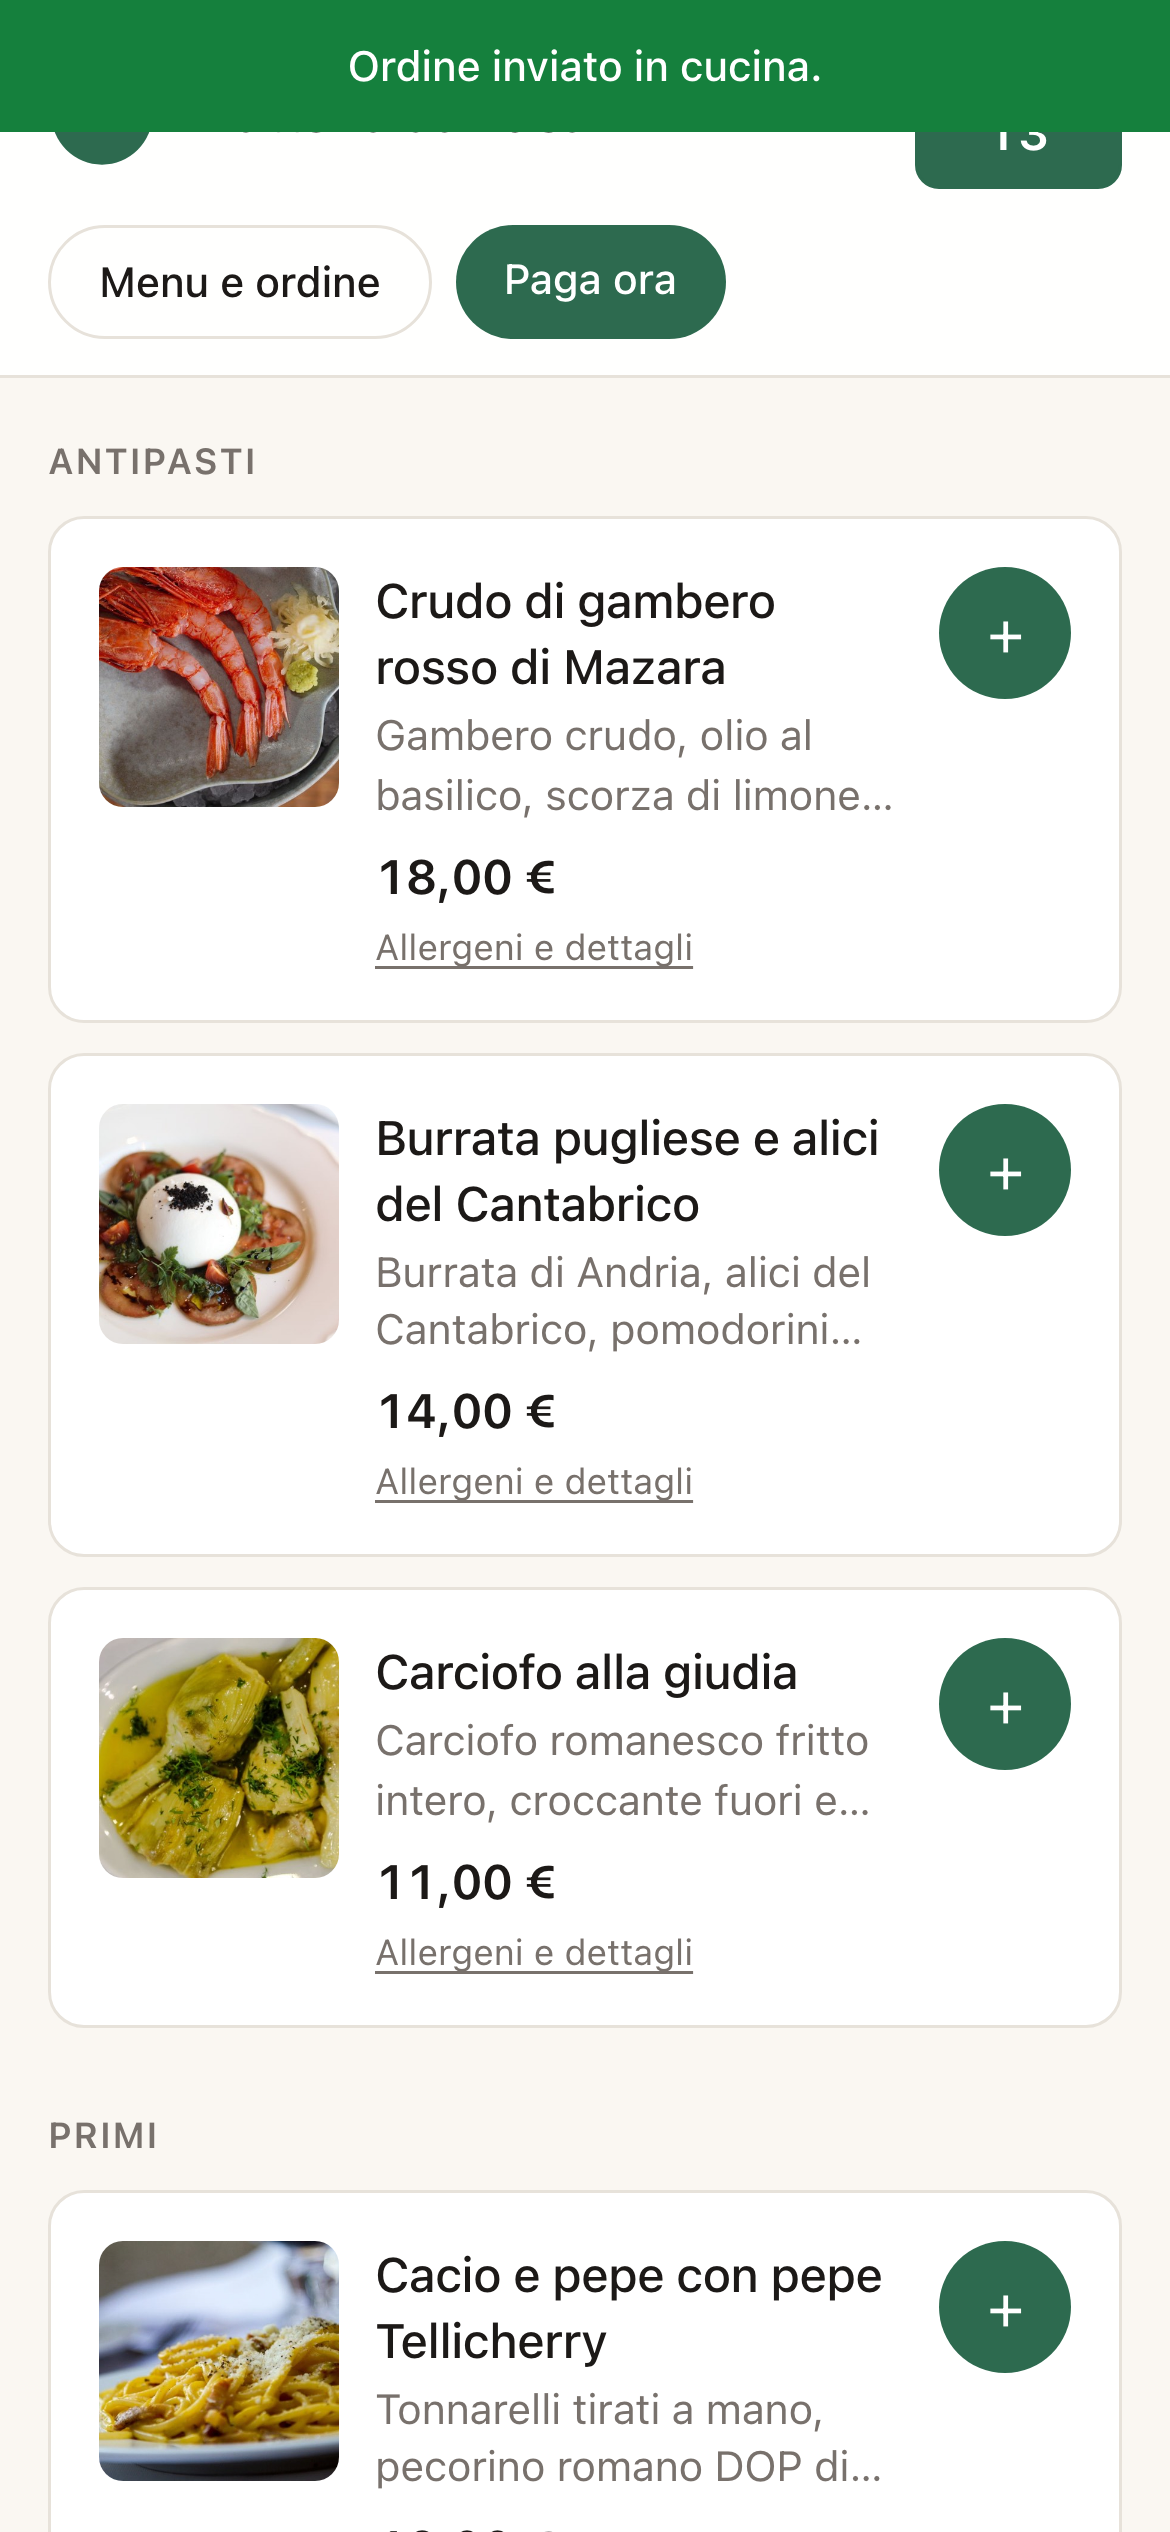
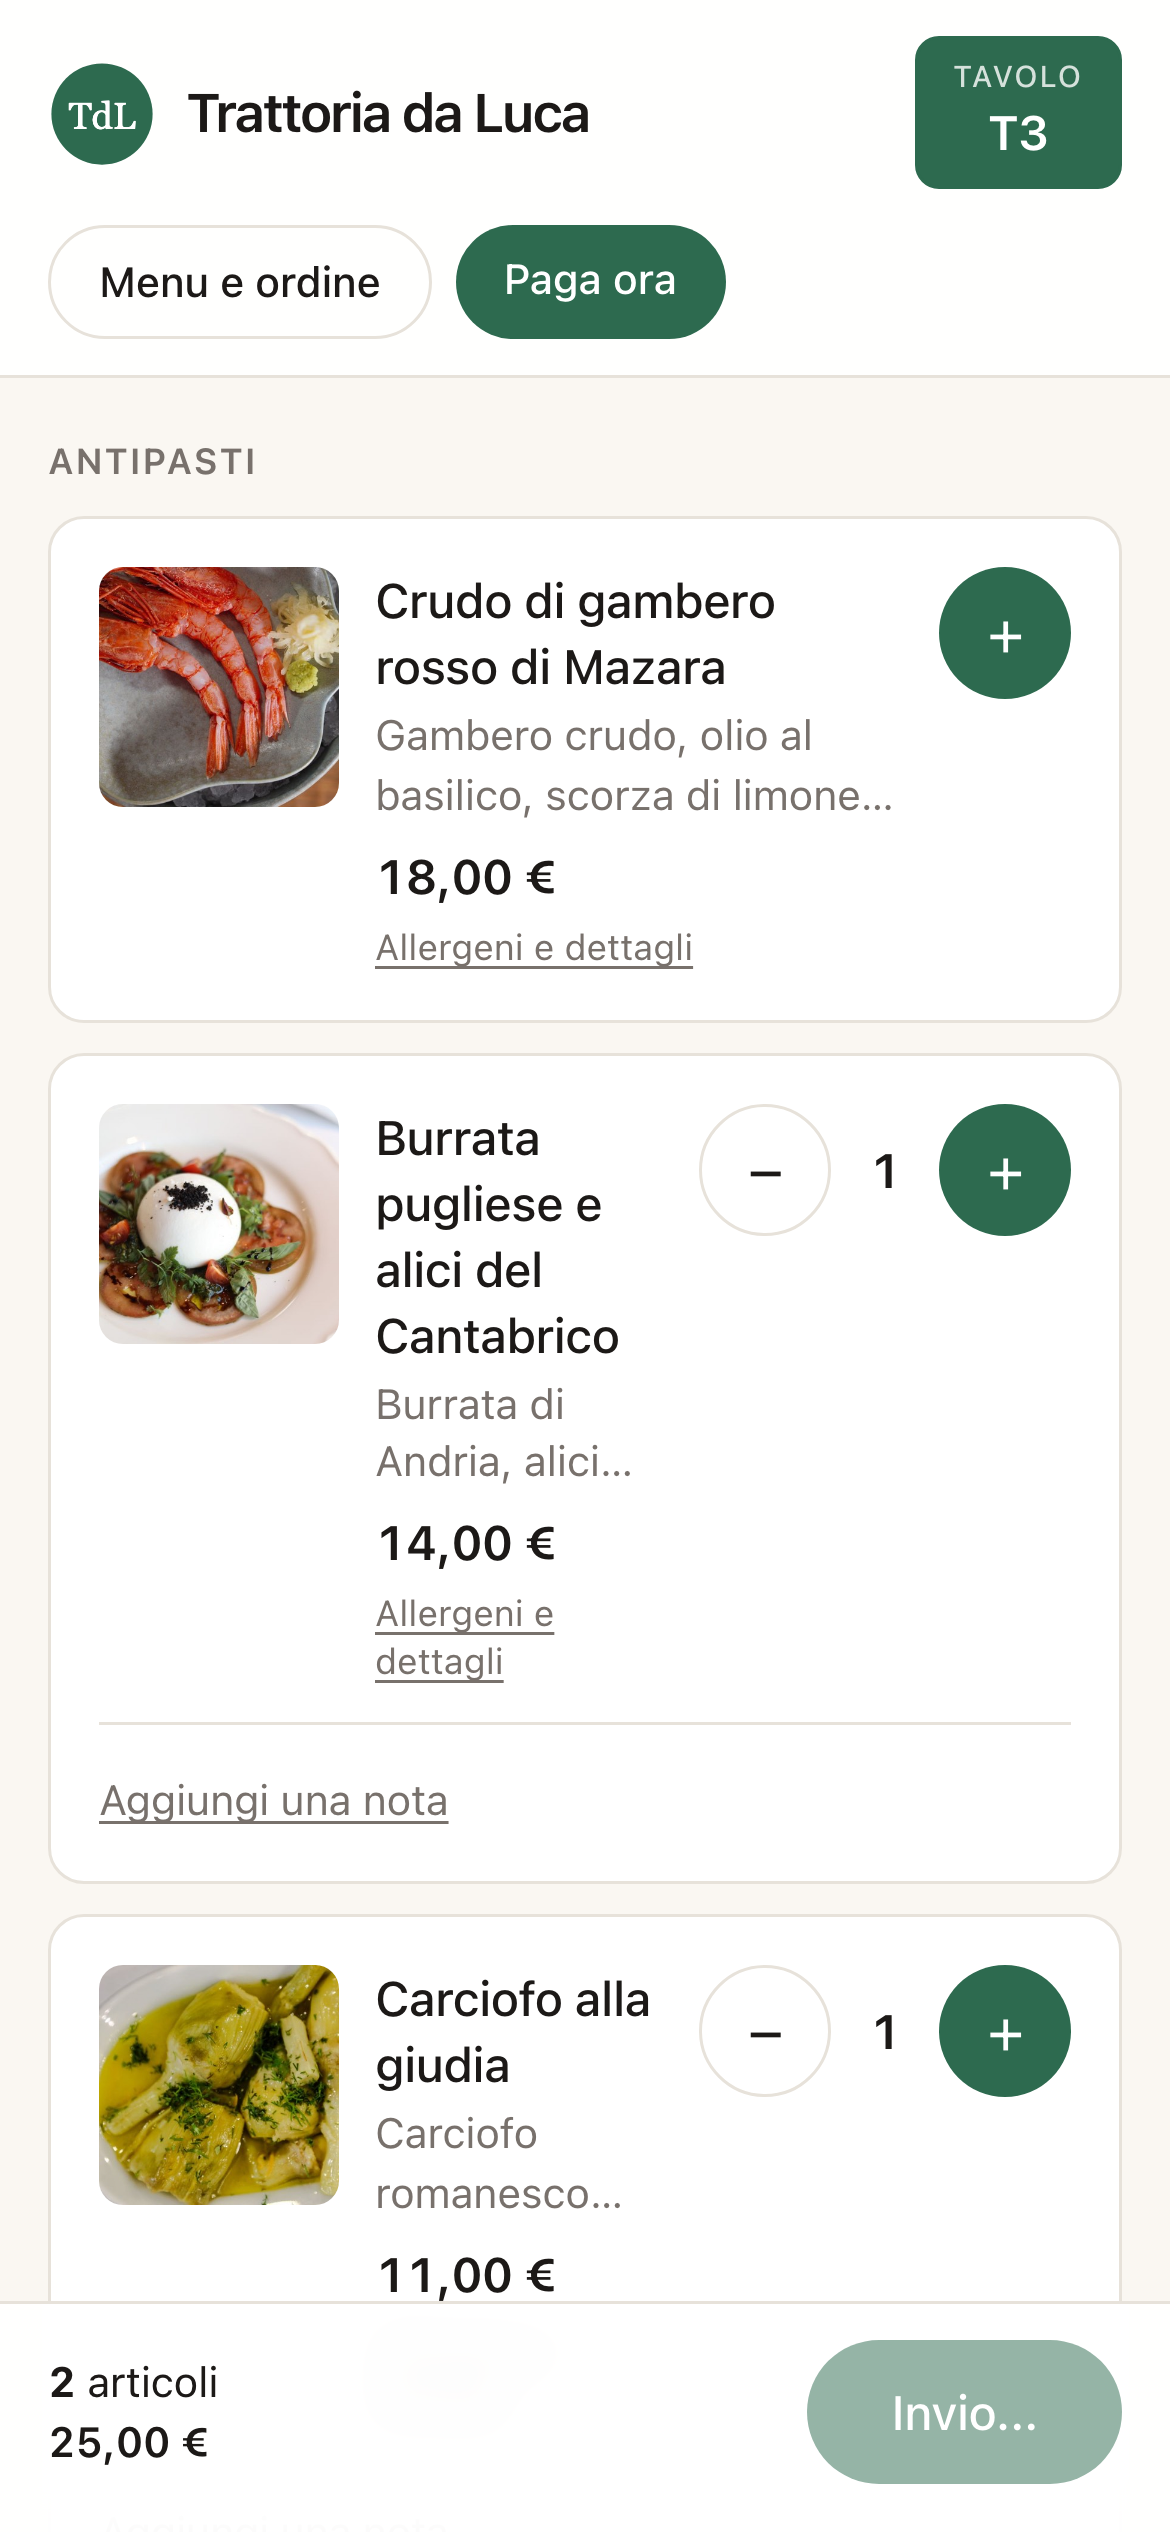
Show the cash button even without a card provider
The cash section sat inside the block that requires Stripe or Satispay,
so a venue with neither — precisely a venue that takes only cash — saw no
way to call for payment at all, just a notice that online payment was not
active. Cash goes through no circuit and depends on no provider, so it now
stands on its own, and the notice says what is actually true: cards are
off here, you pay at the table.

diff --git a/apps/guest/src/app/v/[slug]/t/[token]/bill.tsx b/apps/guest/src/app/v/[slug]/t/[token]/bill.tsx
@@ -203,7 +203,8 @@ export function Bill({
 
       {!bill.stripeAccountId && !bill.satispayEnabled && (
         <p className="rounded-lg bg-background p-3 text-sm text-muted">
-          Pagamento online non ancora attivo per questo locale — chiedi al personale.
+          Il pagamento con carta non è attivo in questo locale: si paga in
+          contanti al tavolo.
         </p>
       )}
 
@@ -330,72 +331,78 @@ export function Bill({
             </button>
           )}
 
-          {/* Il contante non passa da nessun circuito: qui il software non
-              può concludere, può solo far arrivare qualcuno al tavolo con il
-              documento giusto. */}
-          {!contanti ? (
-            <button
-              type="button"
-              onClick={() => setContanti(true)}
-              className="min-h-12 w-full rounded-full border border-border font-medium active:scale-95"
-            >
-              Pago in contanti
-            </button>
-          ) : chiamato ? (
-            <p
-              role="status"
-              className="rounded-xl border border-success bg-success/10 p-4 text-center font-medium"
-            >
-              {chiamato}
-            </p>
-          ) : (
-            <div className="space-y-3 rounded-xl border border-border p-4">
-              <p className="font-medium">Paghi al tavolo in contanti</p>
-              <fieldset>
-                <legend className="mb-2 text-sm text-muted">
-                  Cosa ti serve
-                </legend>
-                <div className="flex gap-2">
-                  {(["scontrino", "fattura"] as const).map((d) => (
-                    <label
-                      key={d}
-                      className={`flex min-h-12 flex-1 cursor-pointer items-center justify-center rounded-full border text-sm font-medium ${
-                        documento === d ? "border-accent bg-accent/10" : "border-border"
-                      }`}
-                    >
-                      <input
-                        type="radio"
-                        name="documento"
-                        checked={documento === d}
-                        onChange={() => setDocumento(d)}
-                        className="sr-only"
-                      />
-                      {d === "scontrino" ? "Scontrino" : "Fattura"}
-                    </label>
-                  ))}
-                </div>
-              </fieldset>
-              <button
-                type="button"
-                onClick={chiamaPerContanti}
-                disabled={chiamando}
-                className="min-h-12 w-full rounded-full bg-accent font-medium text-accent-foreground active:scale-95 disabled:opacity-60"
-              >
-                {chiamando ? "Chiamo…" : "Chiama il cameriere"}
-              </button>
-              <button
-                type="button"
-                onClick={() => setContanti(false)}
-                className="min-h-11 w-full text-sm underline underline-offset-4"
-              >
-                Torna ai pagamenti
-              </button>
-            </div>
-          )}
-
           {error && <p className="text-sm text-danger">{error}</p>}
         </div>
       )}
+
+      {/* Fuori dal blocco che richiede Stripe o Satispay: il contante non
+          passa da nessun circuito, e un locale che incassa solo in cassa —
+          proprio quello che di provider non ne ha — restava senza il
+          bottone che gli serve di più. */}
+      {/* Il contante non passa da nessun circuito: qui il software non
+          può concludere, può solo far arrivare qualcuno al tavolo con il
+          documento giusto. */}
+      {!contanti ? (
+        <button
+          type="button"
+          onClick={() => setContanti(true)}
+          className="min-h-12 w-full rounded-full border border-border font-medium active:scale-95"
+        >
+          Pago in contanti
+        </button>
+      ) : chiamato ? (
+        <p
+          role="status"
+          className="rounded-xl border border-success bg-success/10 p-4 text-center font-medium"
+        >
+      {chiamato}
+        </p>
+      ) : (
+        <div className="space-y-3 rounded-xl border border-border p-4">
+          <p className="font-medium">Paghi al tavolo in contanti</p>
+          <fieldset>
+            <legend className="mb-2 text-sm text-muted">
+              Cosa ti serve
+            </legend>
+            <div className="flex gap-2">
+          {(["scontrino", "fattura"] as const).map((d) => (
+                <label
+                  key={d}
+                  className={`flex min-h-12 flex-1 cursor-pointer items-center justify-center rounded-full border text-sm font-medium ${
+                    documento === d ? "border-accent bg-accent/10" : "border-border"
+                  }`}
+                >
+                  <input
+                    type="radio"
+                    name="documento"
+                    checked={documento === d}
+                    onChange={() => setDocumento(d)}
+                    className="sr-only"
+                  />
+              {d === "scontrino" ? "Scontrino" : "Fattura"}
+                </label>
+              ))}
+            </div>
+          </fieldset>
+          <button
+            type="button"
+            onClick={chiamaPerContanti}
+            disabled={chiamando}
+            className="min-h-12 w-full rounded-full bg-accent font-medium text-accent-foreground active:scale-95 disabled:opacity-60"
+          >
+        {chiamando ? "Chiamo…" : "Chiama il cameriere"}
+          </button>
+          <button
+            type="button"
+            onClick={() => setContanti(false)}
+            className="min-h-11 w-full text-sm underline underline-offset-4"
+          >
+            Torna ai pagamenti
+          </button>
+        </div>
+      )}
+
+
 
       {bill.stripeAccountId && clientSecret && (
         <CheckoutForm
